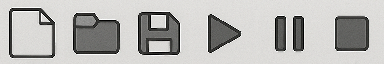
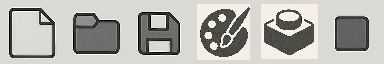
working on better ui code

Changed region(s): [[0.5, 0.0625, 0.8438, 0.9375]]

diff --git a/src/ui.cpp b/src/ui.cpp
@@ -141,9 +141,27 @@ static bool IconButton(const char* id, ImTextureID tex, const ImVec2& uv0, const
   return pressed;
 }
 
+std::pair<ImVec2, ImVec2> toUV(const Rectangle& r, const Texture2D& atlas) const
+{
+
+  
+}
+
+bool UI::drawToolbarIcon(const char* ident, coord2d_t icon, const char* caption)
+{
+  constexpr float iconTextureSize = 64.0f;
+  ImVec2 iconSize(_context->prefs.ui.toolbar.buttonSize, _context->prefs.ui.toolbar.buttonSize);
+
+  ImTextureID texture = (ImTextureID)(intptr_t)_icons.id;
+  
+  ImVec2 uv0((icon.x * iconTextureSize) / _icons.width, (icon.y * iconTextureSize) / _icons.height);
+  ImVec2 uv1(((icon.x + 1) * iconTextureSize) / _icons.width, ((icon.y + 1) * iconTextureSize) / _icons.height);
+  
+  return IconButton(ident, texture, uv0, uv1, iconSize, true, caption);
+}
+
 void DrawToolbar(UI* ui, Context* _context, Texture2D atlas, Rectangle uvNew, Rectangle uvOpen, Rectangle uvSave,
-  Rectangle uvPlay, Rectangle uvPause, Rectangle uvStop,
-  bool canSave, bool isPlaying)
+  Rectangle uvPlay, Rectangle uvPause, Rectangle uvStop)
 {
   ImGuiIO& io = ImGui::GetIO();
   // finestra a tutta larghezza, senza bordi
@@ -170,11 +188,10 @@ void DrawToolbar(UI* ui, Context* _context, Texture2D atlas, Rectangle uvNew, Re
   ImTextureID tex = (ImTextureID)(intptr_t)atlas.id;
   ImVec2 iconSize(_context->prefs.ui.toolbar.buttonSize, _context->prefs.ui.toolbar.buttonSize);
 
-  if (IconButton("##new", tex, uv0New, uv1New, iconSize, true, "New (Ctrl+N)")) {/*...*/ }
+  if (drawToolbarIcon("##new", coord2d_t(0, 0), "New (Ctrl+N)")) {/*...*/ }
   ImGui::SameLine();
-  if (IconButton("##open", tex, uv0Open, uv1Open, iconSize, true, "Open (Ctrl+O)")) {/*...*/ }
+  if (drawToolbarIcon("##open", tex, uv0Open, uv1Open, iconSize, true, "Open (Ctrl+O)")) {/*...*/ }
   ImGui::SameLine();
-  if (IconButton("##save", tex, uv0Save, uv1Save, iconSize, canSave, "Save (Ctrl+S)")) {/*...*/ }
 
   // separatore
   ImGui::SameLine();
@@ -182,14 +199,16 @@ void DrawToolbar(UI* ui, Context* _context, Texture2D atlas, Rectangle uvNew, Re
   ImGui::SameLine();
 
   // se toggle play è attivo, mostra pause/stop, altrimenti play
-  if (IconButton("##play", tex, uv0Play, uv1Play, iconSize, true, "Play (Space)"))
+  if (drawToolbarIcon("##show-palette", coord2d_t(3, 0), "Show Palette (Space)"))
     ui->_paletteWindowVisible = !ui->_paletteWindowVisible;
-
+  if (drawToolbarIcon("##show-stud-mode", coord2d_t(4, 0), "Show Stud Mode (Space)"))
+    ui->_studWindowVisible = !ui->_studWindowVisible;
+  
   // scorciatoie da tastiera
   bool ctrl = io.KeyCtrl;
   if (ctrl && ImGui::IsKeyPressed(ImGuiKey_N)) {/* new */ }
   if (ctrl && ImGui::IsKeyPressed(ImGuiKey_O)) {/* open */ }
-  if (ctrl && ImGui::IsKeyPressed(ImGuiKey_S) && canSave) {/* save */ }
+  if (ctrl && ImGui::IsKeyPressed(ImGuiKey_S)) {/* save */ }
   if (ImGui::IsKeyPressed(ImGuiKey_Space)) {/* play/pause toggle */ }
   if (io.KeyShift && ImGui::IsKeyPressed(ImGuiKey_Space)) {/* stop */ }
 
@@ -205,6 +224,6 @@ UI::UI(Context* context) : _context(context), _paletteWindowVisible(false), _stu
 void UI::drawToolbar()
 {
   DrawToolbar(this, _context, _icons, Rectangle{0, 0, 64, 64}, Rectangle{64, 0, 64, 64}, Rectangle{128, 0, 64, 64},
-              Rectangle{196, 0, 64, 64}, Rectangle{64 * 4, 0, 64, 64}, Rectangle{64 * 5, 0, 64, 64}, true, false);
+              Rectangle{196, 0, 64, 64}, Rectangle{64 * 4, 0, 64, 64}, Rectangle{64 * 5, 0, 64, 64});
 }
 

diff --git a/src/ui.h b/src/ui.h
@@ -3,12 +3,18 @@
 #include "raylib.h"
 #include "context.h"
 
+struct ImVec2;
+
 class UI
 {
 protected:
   Context* _context;
   
   Texture2D _icons;
+  
+  std::pair<ImVec2, ImVec2> toUV(const Rectangle& r, const Texture2D& atlas) const;
+  
+  bool drawToolbarIcon(const char* ident, coord2d_t icon, const char* caption);
 
 public:
   bool _paletteWindowVisible;
